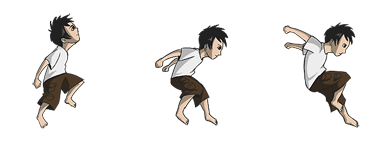
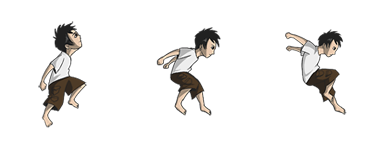
commit sembarang

Changed region(s): [[0.718, 0.1333, 0.9478, 0.8533], [0.0862, 0.08, 0.2298, 0.8533], [0.4021, 0.16, 0.6031, 0.8533]]

diff --git a/src/com/agd/jb/state/StateGamePlayJb.java b/src/com/agd/jb/state/StateGamePlayJb.java
@@ -5,6 +5,8 @@ import org.andengine.entity.text.TextOptions;
 import org.andengine.entity.util.ScreenCapture;
 import org.andengine.entity.util.ScreenGrabber;
 import org.andengine.input.touch.TouchEvent;
+import org.andengine.util.HorizontalAlign;
+
 import com.agd.jb.state.value.ValueAction;
 import com.agd.jb.state.value.ValueCamera;
 import com.agd.jb.state.value.ValuePlay;
@@ -12,6 +14,7 @@ import com.agd.jb.state.value.ValuePlayer;
 import com.agd.jb.state.value.StateDefine;
 
 import android.R.integer;
+import android.graphics.Paint.Align;
 import android.view.KeyEvent;
 import lib.defines.GameEngineConfiguration;
 import lib.elementgame.GameAnim;
@@ -47,6 +50,7 @@ public class StateGamePlayJb extends GameState  implements StateDefine, ValueCam
 	private int move_player;
 	private int time;
 	private int distance_player;
+	private int speed_distance;
 	
 	private float speed_jump;
 	private int speed_decrease;
@@ -95,10 +99,10 @@ public class StateGamePlayJb extends GameState  implements StateDefine, ValueCam
 		
 		player_run.animate(SPEED_ANIM, true);
 		player_fall.animate(SPEED_ANIM, true);
-		player_accident.animate(SPEED_ANIM, true);
+		//player_accident.animate(SPEED_ANIM, true);
 		
-		player_run.setVisible(true);
-		player_fall.setVisible(false);
+		player_run.setVisible(false);
+		player_fall.setVisible(true);
 		player_jump.setVisible(false);
 		player_doublejump.setVisible(false);
 		player_accident.setVisible(false);
@@ -192,7 +196,6 @@ public class StateGamePlayJb extends GameState  implements StateDefine, ValueCam
 		player_accident.setPosition(-37,0);
 		
 		button_menu.setPosition(Anchor.BOTTOM_CENTER);
-		distance.setPosition(Anchor.TOP_RIGHT);
 		menu.setPosition(Anchor.CENTER);
 	}
 
@@ -216,9 +219,19 @@ public class StateGamePlayJb extends GameState  implements StateDefine, ValueCam
 		bg_belakang.setX(bg_belakang.getX() + SPEED);
 		pointer.setX(pointer.getX() + SPEED);
 		
-		distance_player= distance_player + DISTANCE;
+		speed_distance++;
+		
+		if(speed_distance == SPEED_DISTANCE){
+			distance_player++;
+			distance.setText(String.valueOf(distance_player));
+			speed_distance = 0;
+		}
+		
+		
+		/*if(distance.getX() + distance.getWidth() < engine.camera.getXMax()){
+			distance.setX(engine.camera.getXMax() - distance.getWidth());
+		}*/
 		//distance.setX(engine.camera.getXMax()-distance.getWidth());
-		distance.setText(String.format("%d", distance_player));
 		
 		engine.camera.setCenter(pointer.getX() + GameEngine.cameraWidth / 2 - 60, engine.camera.getCenterY());
 		
@@ -295,20 +308,16 @@ public class StateGamePlayJb extends GameState  implements StateDefine, ValueCam
 						break;
 					case SINGLE_JUMP:
 							player_run.setVisible(false);
-							//player_jump.animate(DURATION_SINGLE, false);
-							//player_jump.setVisible(true);
-							player_fall.setVisible(true);
+							player_jump.animate(DURATION_SINGLE, false);
+							player_jump.setVisible(true);
 							range_up = GameEngine.cameraHeight - SINGLE_JUMP_RANGE;
 						
 						break;
 					case DOUBLE_JUMP:
-							//if(player_jump.isVisible() && move_player == UP){
-						if(player_fall.isVisible() && move_player == UP){
-								//player_jump.setVisible(false);
-								player_fall.setVisible(false);
-								player_accident.setVisible(true);
-								//player_doublejump.animate(DURATION_DOUBLE, false);
-								//player_doublejump.setVisible(true);
+							if(player_jump.isVisible() && move_player == UP){
+								player_jump.setVisible(false);
+								player_doublejump.animate(DURATION_DOUBLE, false);
+								player_doublejump.setVisible(true);
 							}
 							range_up = GameEngine.cameraHeight - DOUBLE_JUMP_RANGE;
 						break;

diff --git a/src/com/agd/jb/state/value/ValuePlay.java b/src/com/agd/jb/state/value/ValuePlay.java
@@ -1,5 +1,6 @@
 package com.agd.jb.state.value;
 
 public interface ValuePlay {
-	static final int DISTANCE = 3;
+	static final int DISTANCE 			= 3;
+	static final int SPEED_DISTANCE 	= 5;
 }
